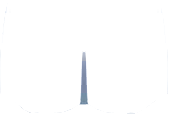
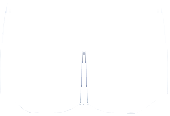
кукла мужика

Changed region(s): [[0.4706, 0.4655, 0.5294, 0.9052]]

diff --git a/training/templates/training/clientpage_training.html b/training/templates/training/clientpage_training.html
@@ -226,7 +226,7 @@
           {% if client_sex == "F" %}
             <div class="border dummy-front">
               <svg width="100%" viewBox="0 0 500 1000" xmlns="http://www.w3.org/2000/svg" xmlns:xlink="http://www.w3.org/1999/xlink">
-                  <image xlink:href="{% static 'training/img/dummy_female_front.png' %}" x="0" y="0" height="1000" width="500" />
+                  <image xlink:href="{% static 'training/img/dummy_female_front.png' %}" x="0" y="0" height="1000" width="500"/>
                   <image xlink:href="{% static 'training/img/female_area/chest_front.png' %}" x="171" y="153" height="133" width="154" class="effect-area-pic area-chest"/>
                   <image xlink:href="{% static 'training/img/female_area/delts_left.png' %}" x="137" y="160" height="57" width="70" class="effect-area-pic area-delts-front"/>
                   <image xlink:href="{% static 'training/img/female_area/delts_rigth.png' %}" x="289" y="160" height="57" width="70" class="effect-area-pic area-delts-front"/> 
@@ -240,7 +240,7 @@
             </div>
             <div class="border dummy-back">
               <svg width="100%" viewBox="0 0 500 1000" xmlns="http://www.w3.org/2000/svg" xmlns:xlink="http://www.w3.org/1999/xlink">
-                <image xlink:href="{% static 'training/img/dummy_female_back.png' %}" x="0" y="0" height="1000" width="500" />
+                <image xlink:href="{% static 'training/img/dummy_female_back.png' %}" x="0" y="0" height="1000" width="500"/>
                 <image xlink:href="{% static 'training/img/female_area/upperspine_back.png' %}" x="151" y="151" height="132" width="210" class="effect-area-pic area-upperspine"/>  
                 <image xlink:href="{% static 'training/img/female_area/butt_back.png' %}" x="157" y="386" height="120" width="198" class="effect-area-pic area-butt"/>
                 <image xlink:href="{% static 'training/img/female_area/delts_left.png' %}" x="137" y="160" height="57" width="85" class="effect-area-pic area-delts-back"/>
@@ -255,12 +255,30 @@
           {% else %}
             <div class="border dummy-front">
               <svg width="100%" viewBox="0 0 500 1000" xmlns="http://www.w3.org/2000/svg" xmlns:xlink="http://www.w3.org/1999/xlink">
-                <image xlink:href="{% static 'training/img/dummy_male_front.png' %}" x="0" y="0" height="1000" width="500" />   
+                <image xlink:href="{% static 'training/img/dummy_male_front.png' %}" x="0" y="0" height="1000" width="500"/>
+                <image xlink:href="{% static 'training/img/male_area/chest_front.png' %}" x="147" y="170" height="148" width="210" class="effect-area-pic area-chest"/>  
+                <image xlink:href="{% static 'training/img/male_area/delts_left.png' %}" x="112" y="173" height="92" width="72" class="effect-area-pic area-delts-front"/>
+                <image xlink:href="{% static 'training/img/male_area/delts_rigth.png' %}" x="320" y="173" height="92" width="72" class="effect-area-pic area-delts-front"/>
+                <image xlink:href="{% static 'training/img/male_area/hips_front.png' %}" x="158" y="422" height="306" width="188" class="effect-area-pic area-hips-front"/>
+                <image xlink:href="{% static 'training/img/male_area/press_front.png' %}" x="212" y="306" height="202" width="80" class="effect-area-pic area-press"/>
+                <image xlink:href="{% static 'training/img/male_area/shoulders_front_left.png' %}" x="102" y="240" height="125" width="55" class="effect-area-pic area-shoulders-front"/>
+                <image xlink:href="{% static 'training/img/male_area/shoulders_front_rigth.png' %}" x="347" y="240" height="125" width="55" class="effect-area-pic area-shoulders-front"/>
+                <image xlink:href="{% static 'training/img/male_area/sides_front_left.png' %}" x="157" y="312" height="169" width="58" class="effect-area-pic area-sides"/>
+                <image xlink:href="{% static 'training/img/male_area/sides_front_rigth.png' %}" x="289" y="312" height="169" width="58" class="effect-area-pic area-sides"/>     
               </svg>
             </div>
             <div class="border dummy-back">
               <svg width="100%" viewBox="0 0 500 1000" xmlns="http://www.w3.org/2000/svg" xmlns:xlink="http://www.w3.org/1999/xlink">
-                <image xlink:href="{% static 'training/img/dummy_male_back.png' %}" x="0" y="0" height="1000" width="500" />   
+                <image xlink:href="{% static 'training/img/dummy_male_back.png' %}" x="0" y="0" height="1000" width="500"/> 
+                <image xlink:href="{% static 'training/img/male_area/butt_back.png' %}" x="163" y="414" height="117" width="176" class="effect-area-pic area-butt"/> 
+                <image xlink:href="{% static 'training/img/male_area/shins_back.png' %}" x="177" y="692" height="222" width="146" class="effect-area-pic area-shins"/>
+                <image xlink:href="{% static 'training/img/male_area/delts_left.png' %}" x="115" y="175" height="92" width="72" class="effect-area-pic area-delts-back"/>
+                <image xlink:href="{% static 'training/img/male_area/delts_rigth.png' %}" x="313" y="175" height="92" width="72" class="effect-area-pic area-delts-back"/>
+                <image xlink:href="{% static 'training/img/male_area/hips_back.png' %}" x="163" y="506" height="198" width="173" class="effect-area-pic area-hips-back"/>
+                <image xlink:href="{% static 'training/img/male_area/lowerspine_back.png' %}" x="160" y="304" height="166" width="180" class="effect-area-pic area-spine"/>
+                <image xlink:href="{% static 'training/img/male_area/upperspine_back.png' %}" x="148" y="152" height="161" width="202" class="effect-area-pic area-upperspine"/>
+                <image xlink:href="{% static 'training/img/male_area/shoulders_back_left.png' %}" x="100" y="254" height="117" width="57" class="effect-area-pic area-shoulders-back"/>
+                <image xlink:href="{% static 'training/img/male_area/shoulders_back_rigth.png' %}" x="343" y="254" height="117" width="57" class="effect-area-pic area-shoulders-back"/>   
               </svg>
             </div>
           {% endif %}
@@ -320,12 +338,30 @@
           {% else %}
             <div class="border dummy-front">
               <svg width="100%" viewBox="0 0 500 1000" xmlns="http://www.w3.org/2000/svg" xmlns:xlink="http://www.w3.org/1999/xlink">
-                <image xlink:href="{% static 'training/img/dummy_male_front.png' %}" x="0" y="0" height="1000" width="500" />   
+                <image xlink:href="{% static 'training/img/dummy_male_front.png' %}" x="0" y="0" height="1000" width="500"/>
+                <image xlink:href="{% static 'training/img/male_area/chest_front.png' %}" x="147" y="170" height="148" width="210" class="effect-area-pic area-chest"/>  
+                <image xlink:href="{% static 'training/img/male_area/delts_left.png' %}" x="112" y="173" height="92" width="72" class="effect-area-pic area-delts-front"/>
+                <image xlink:href="{% static 'training/img/male_area/delts_rigth.png' %}" x="320" y="173" height="92" width="72" class="effect-area-pic area-delts-front"/>
+                <image xlink:href="{% static 'training/img/male_area/hips_front.png' %}" x="158" y="422" height="306" width="188" class="effect-area-pic area-hips-front"/>
+                <image xlink:href="{% static 'training/img/male_area/press_front.png' %}" x="212" y="306" height="202" width="80" class="effect-area-pic area-press"/>
+                <image xlink:href="{% static 'training/img/male_area/shoulders_front_left.png' %}" x="102" y="240" height="125" width="55" class="effect-area-pic area-shoulders-front"/>
+                <image xlink:href="{% static 'training/img/male_area/shoulders_front_rigth.png' %}" x="347" y="240" height="125" width="55" class="effect-area-pic area-shoulders-front"/>
+                <image xlink:href="{% static 'training/img/male_area/sides_front_left.png' %}" x="157" y="312" height="169" width="58" class="effect-area-pic area-sides"/>
+                <image xlink:href="{% static 'training/img/male_area/sides_front_rigth.png' %}" x="289" y="312" height="169" width="58" class="effect-area-pic area-sides"/>     
               </svg>
             </div>
             <div class="border dummy-back">
               <svg width="100%" viewBox="0 0 500 1000" xmlns="http://www.w3.org/2000/svg" xmlns:xlink="http://www.w3.org/1999/xlink">
-                <image xlink:href="{% static 'training/img/dummy_male_back.png' %}" x="0" y="0" height="1000" width="500" />   
+                <image xlink:href="{% static 'training/img/dummy_male_back.png' %}" x="0" y="0" height="1000" width="500"/> 
+                <image xlink:href="{% static 'training/img/male_area/butt_back.png' %}" x="163" y="414" height="117" width="176" class="effect-area-pic area-butt"/> 
+                <image xlink:href="{% static 'training/img/male_area/shins_back.png' %}" x="177" y="692" height="222" width="146" class="effect-area-pic area-shins"/>
+                <image xlink:href="{% static 'training/img/male_area/delts_left.png' %}" x="115" y="175" height="92" width="72" class="effect-area-pic area-delts-back"/>
+                <image xlink:href="{% static 'training/img/male_area/delts_rigth.png' %}" x="313" y="175" height="92" width="72" class="effect-area-pic area-delts-back"/>
+                <image xlink:href="{% static 'training/img/male_area/hips_back.png' %}" x="163" y="506" height="198" width="173" class="effect-area-pic area-hips-back"/>
+                <image xlink:href="{% static 'training/img/male_area/lowerspine_back.png' %}" x="160" y="304" height="166" width="180" class="effect-area-pic area-spine"/>
+                <image xlink:href="{% static 'training/img/male_area/upperspine_back.png' %}" x="148" y="152" height="161" width="202" class="effect-area-pic area-upperspine"/>
+                <image xlink:href="{% static 'training/img/male_area/shoulders_back_left.png' %}" x="100" y="254" height="117" width="57" class="effect-area-pic area-shoulders-back"/>
+                <image xlink:href="{% static 'training/img/male_area/shoulders_back_rigth.png' %}" x="343" y="254" height="117" width="57" class="effect-area-pic area-shoulders-back"/>   
               </svg>
             </div>
           {% endif %}
@@ -387,12 +423,30 @@
           {% else %}
             <div class="border dummy-front">
               <svg width="100%" viewBox="0 0 500 1000" xmlns="http://www.w3.org/2000/svg" xmlns:xlink="http://www.w3.org/1999/xlink">
-                <image xlink:href="{% static 'training/img/dummy_male_front.png' %}" x="0" y="0" height="1000" width="500" />   
+                <image xlink:href="{% static 'training/img/dummy_male_front.png' %}" x="0" y="0" height="1000" width="500"/>
+                <image xlink:href="{% static 'training/img/male_area/chest_front.png' %}" x="147" y="170" height="148" width="210" class="effect-area-pic area-chest"/>  
+                <image xlink:href="{% static 'training/img/male_area/delts_left.png' %}" x="112" y="173" height="92" width="72" class="effect-area-pic area-delts-front"/>
+                <image xlink:href="{% static 'training/img/male_area/delts_rigth.png' %}" x="320" y="173" height="92" width="72" class="effect-area-pic area-delts-front"/>
+                <image xlink:href="{% static 'training/img/male_area/hips_front.png' %}" x="158" y="422" height="306" width="188" class="effect-area-pic area-hips-front"/>
+                <image xlink:href="{% static 'training/img/male_area/press_front.png' %}" x="212" y="306" height="202" width="80" class="effect-area-pic area-press"/>
+                <image xlink:href="{% static 'training/img/male_area/shoulders_front_left.png' %}" x="102" y="240" height="125" width="55" class="effect-area-pic area-shoulders-front"/>
+                <image xlink:href="{% static 'training/img/male_area/shoulders_front_rigth.png' %}" x="347" y="240" height="125" width="55" class="effect-area-pic area-shoulders-front"/>
+                <image xlink:href="{% static 'training/img/male_area/sides_front_left.png' %}" x="157" y="312" height="169" width="58" class="effect-area-pic area-sides"/>
+                <image xlink:href="{% static 'training/img/male_area/sides_front_rigth.png' %}" x="289" y="312" height="169" width="58" class="effect-area-pic area-sides"/>     
               </svg>
             </div>
             <div class="border dummy-back">
               <svg width="100%" viewBox="0 0 500 1000" xmlns="http://www.w3.org/2000/svg" xmlns:xlink="http://www.w3.org/1999/xlink">
-                <image xlink:href="{% static 'training/img/dummy_male_back.png' %}" x="0" y="0" height="1000" width="500" />   
+                <image xlink:href="{% static 'training/img/dummy_male_back.png' %}" x="0" y="0" height="1000" width="500"/> 
+                <image xlink:href="{% static 'training/img/male_area/butt_back.png' %}" x="163" y="414" height="117" width="176" class="effect-area-pic area-butt"/> 
+                <image xlink:href="{% static 'training/img/male_area/shins_back.png' %}" x="177" y="692" height="222" width="146" class="effect-area-pic area-shins"/>
+                <image xlink:href="{% static 'training/img/male_area/delts_left.png' %}" x="115" y="175" height="92" width="72" class="effect-area-pic area-delts-back"/>
+                <image xlink:href="{% static 'training/img/male_area/delts_rigth.png' %}" x="313" y="175" height="92" width="72" class="effect-area-pic area-delts-back"/>
+                <image xlink:href="{% static 'training/img/male_area/hips_back.png' %}" x="163" y="506" height="198" width="173" class="effect-area-pic area-hips-back"/>
+                <image xlink:href="{% static 'training/img/male_area/lowerspine_back.png' %}" x="160" y="304" height="166" width="180" class="effect-area-pic area-spine"/>
+                <image xlink:href="{% static 'training/img/male_area/upperspine_back.png' %}" x="148" y="152" height="161" width="202" class="effect-area-pic area-upperspine"/>
+                <image xlink:href="{% static 'training/img/male_area/shoulders_back_left.png' %}" x="100" y="254" height="117" width="57" class="effect-area-pic area-shoulders-back"/>
+                <image xlink:href="{% static 'training/img/male_area/shoulders_back_rigth.png' %}" x="343" y="254" height="117" width="57" class="effect-area-pic area-shoulders-back"/>   
               </svg>
             </div>
           {% endif %}

diff --git a/training/static/training/js/training.js b/training/static/training/js/training.js
@@ -58,8 +58,6 @@ $(document).ready(function(){
     $(".btn-exercise-edit").click(openExerciseEditing);
 });
 
-// TODO не забыть про куклу мужика
-// TODO после сохранения нового упражнения - добавлять в список
 // TODO поправить области тыка на упражнение
 // TODO автозаполнение полей (+интервальная)
 // TODO убрать вариант создания тренировок одинакового типа
